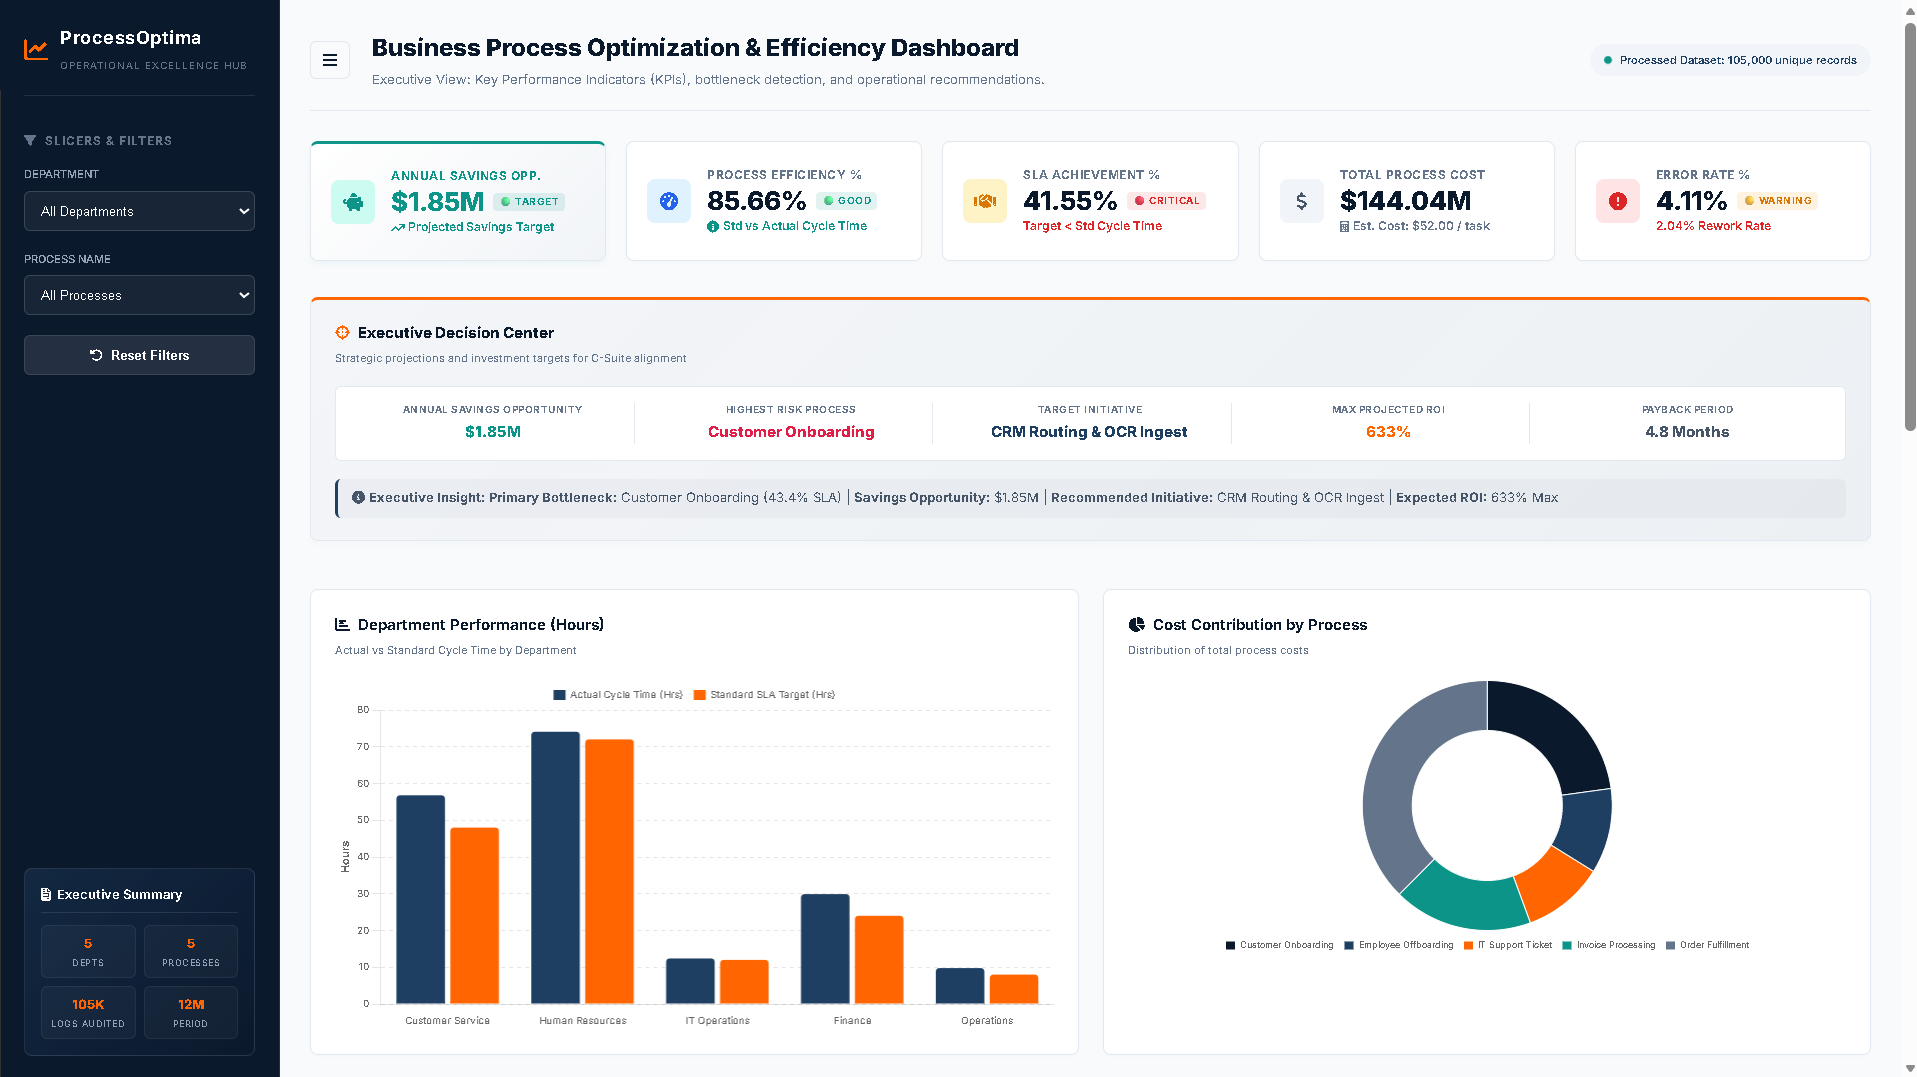
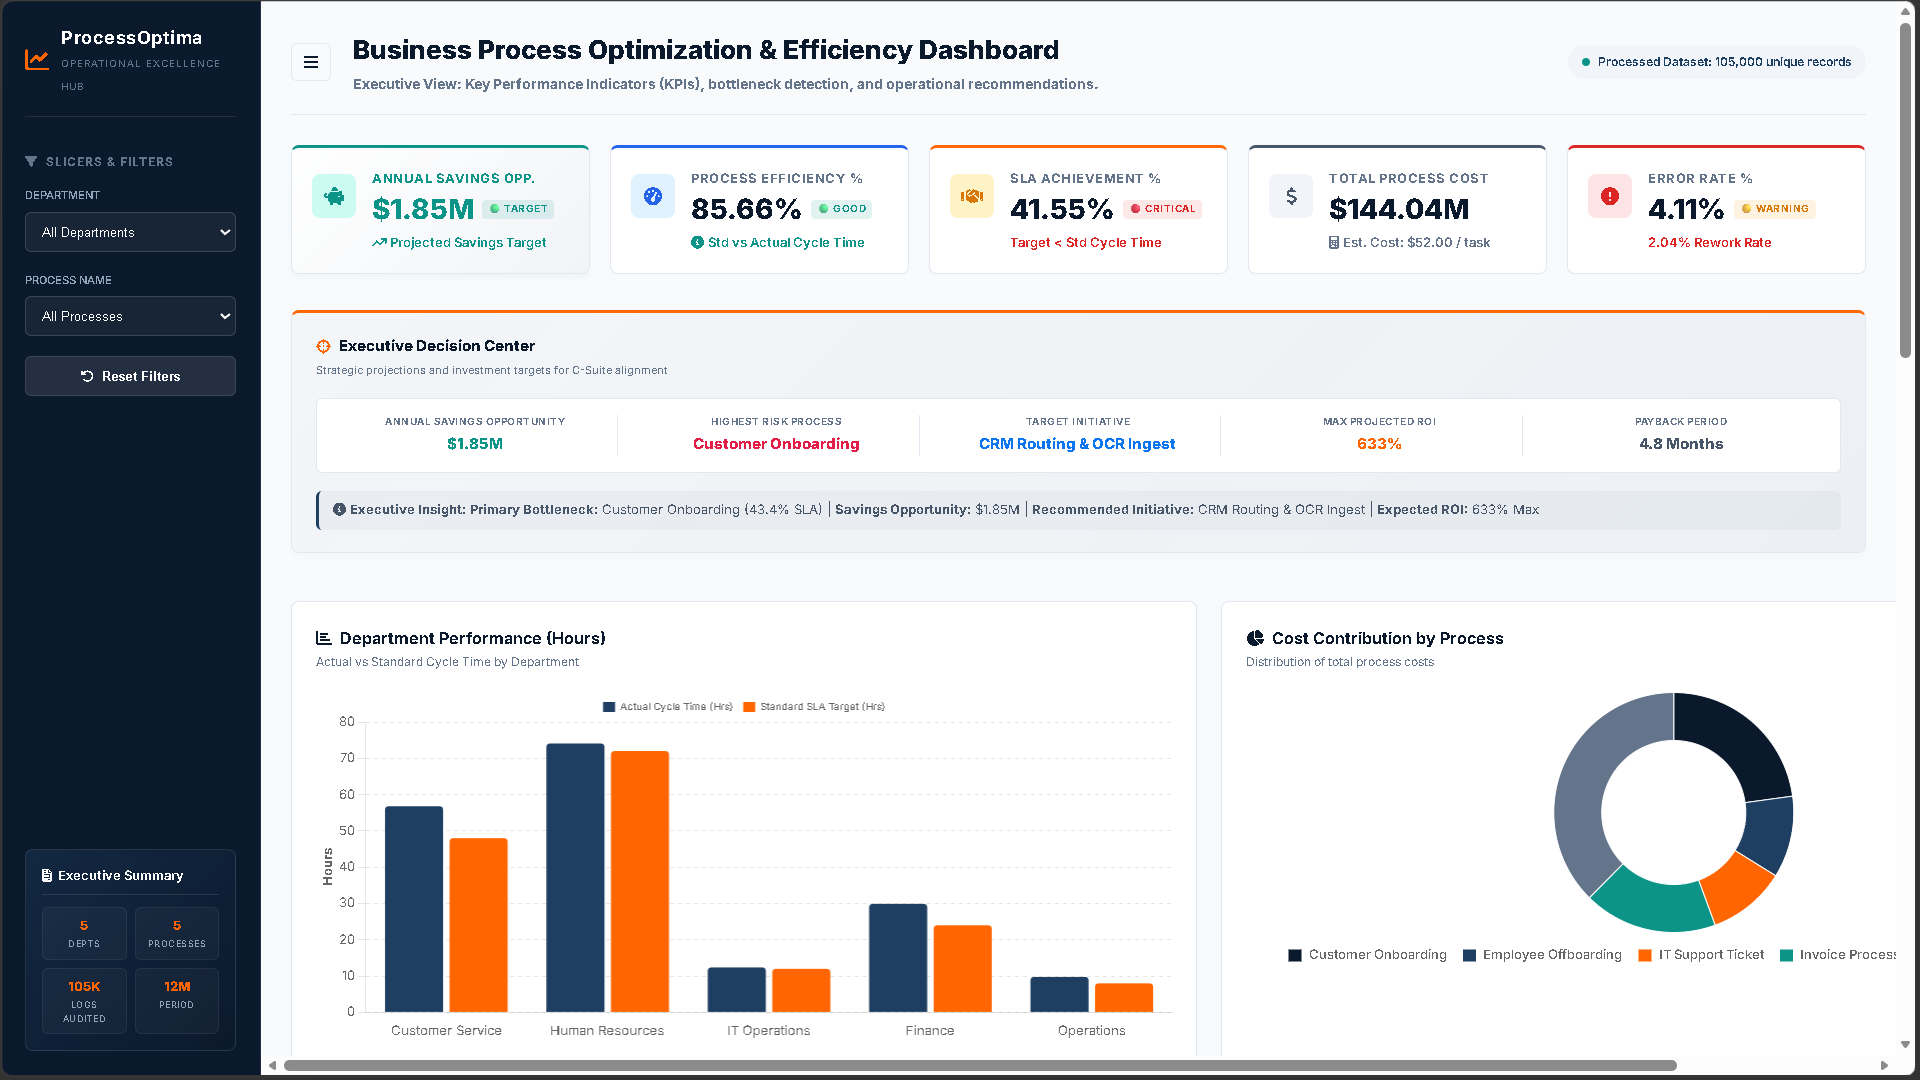
Changes in Dashboard

diff --git a/dashboard/index.html b/dashboard/index.html
@@ -414,7 +414,7 @@
                     </div>
                 </div>
                 <div class="footer-copyright">
-                    <span>ProcessOptima Enterprise BI Dashboard &copy; 2026. All rights reserved. Confidential Executive Report.</span>
+                    <span>ProcessOptima Enterprise BI Dashboard &copy; Girish Shenoy 2026. All rights reserved. Confidential Executive Report.</span>
                 </div>
             </footer>
         </main>
